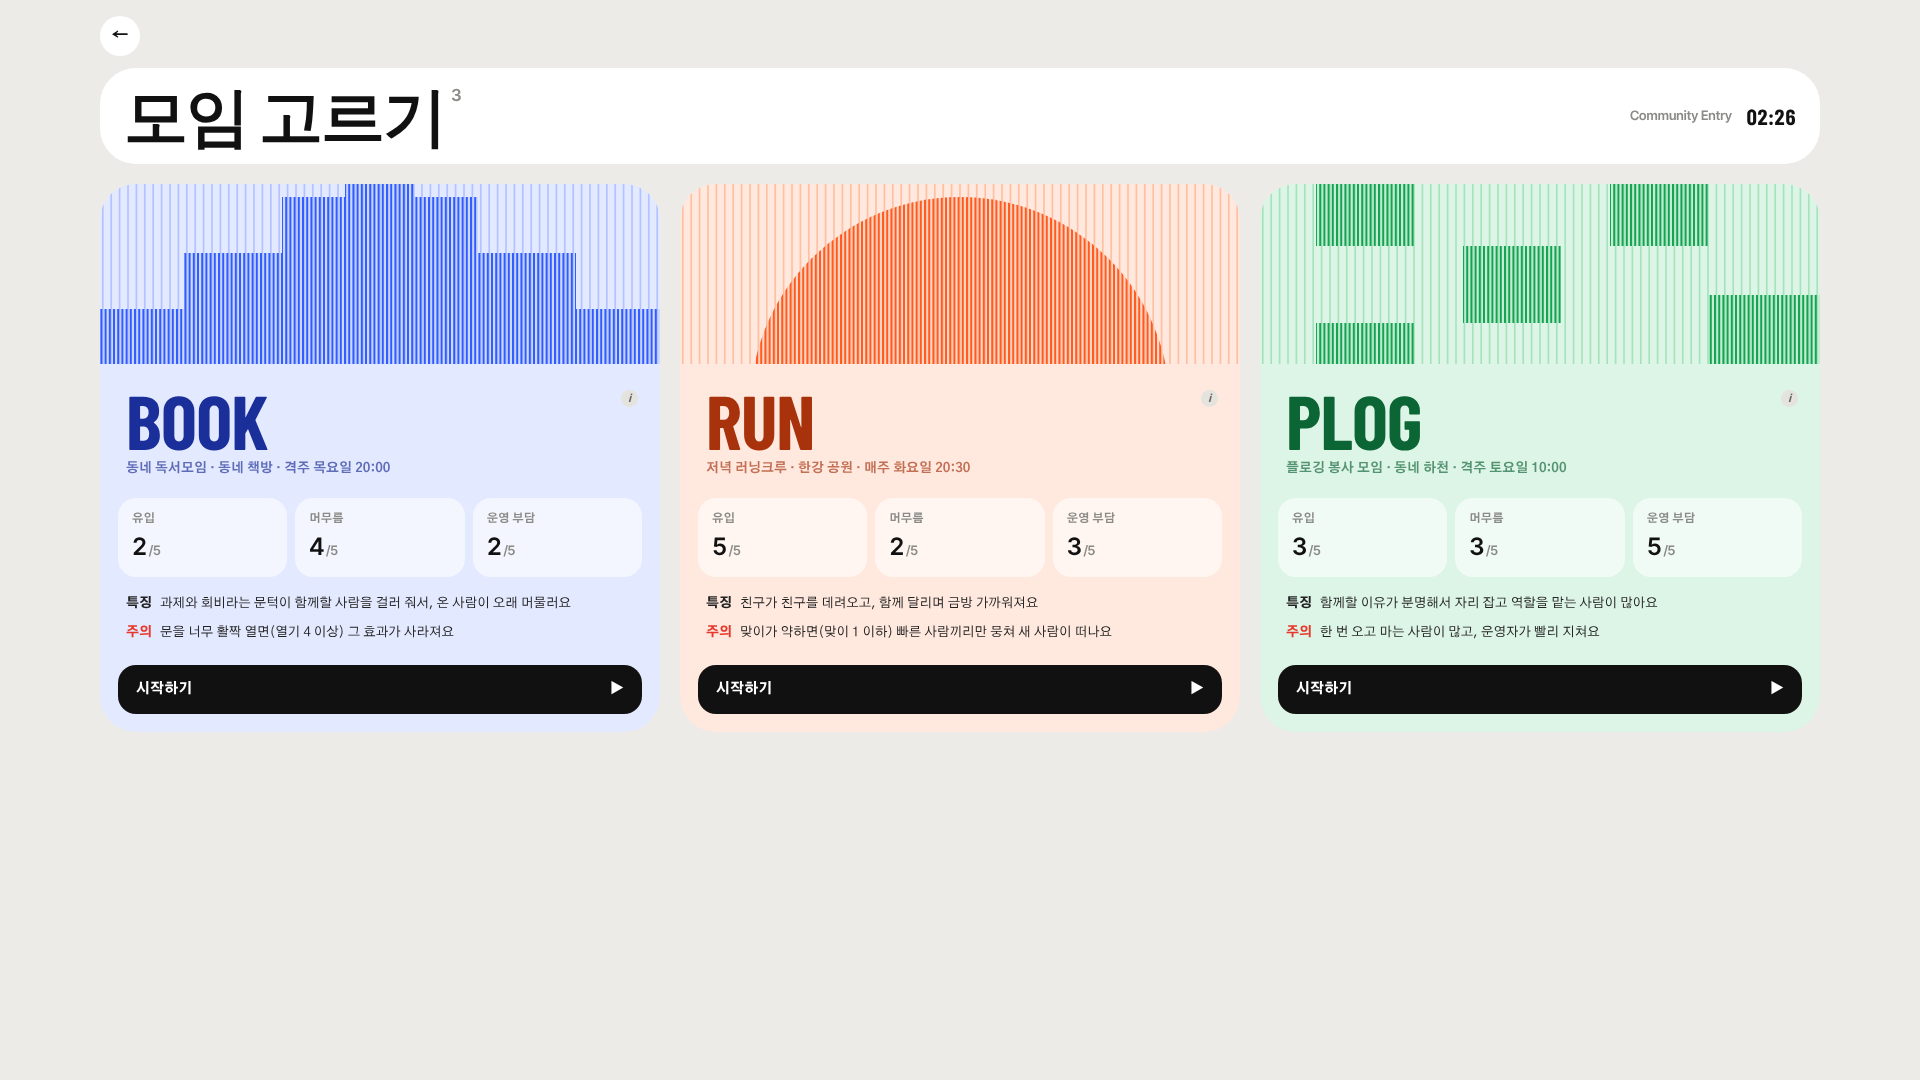
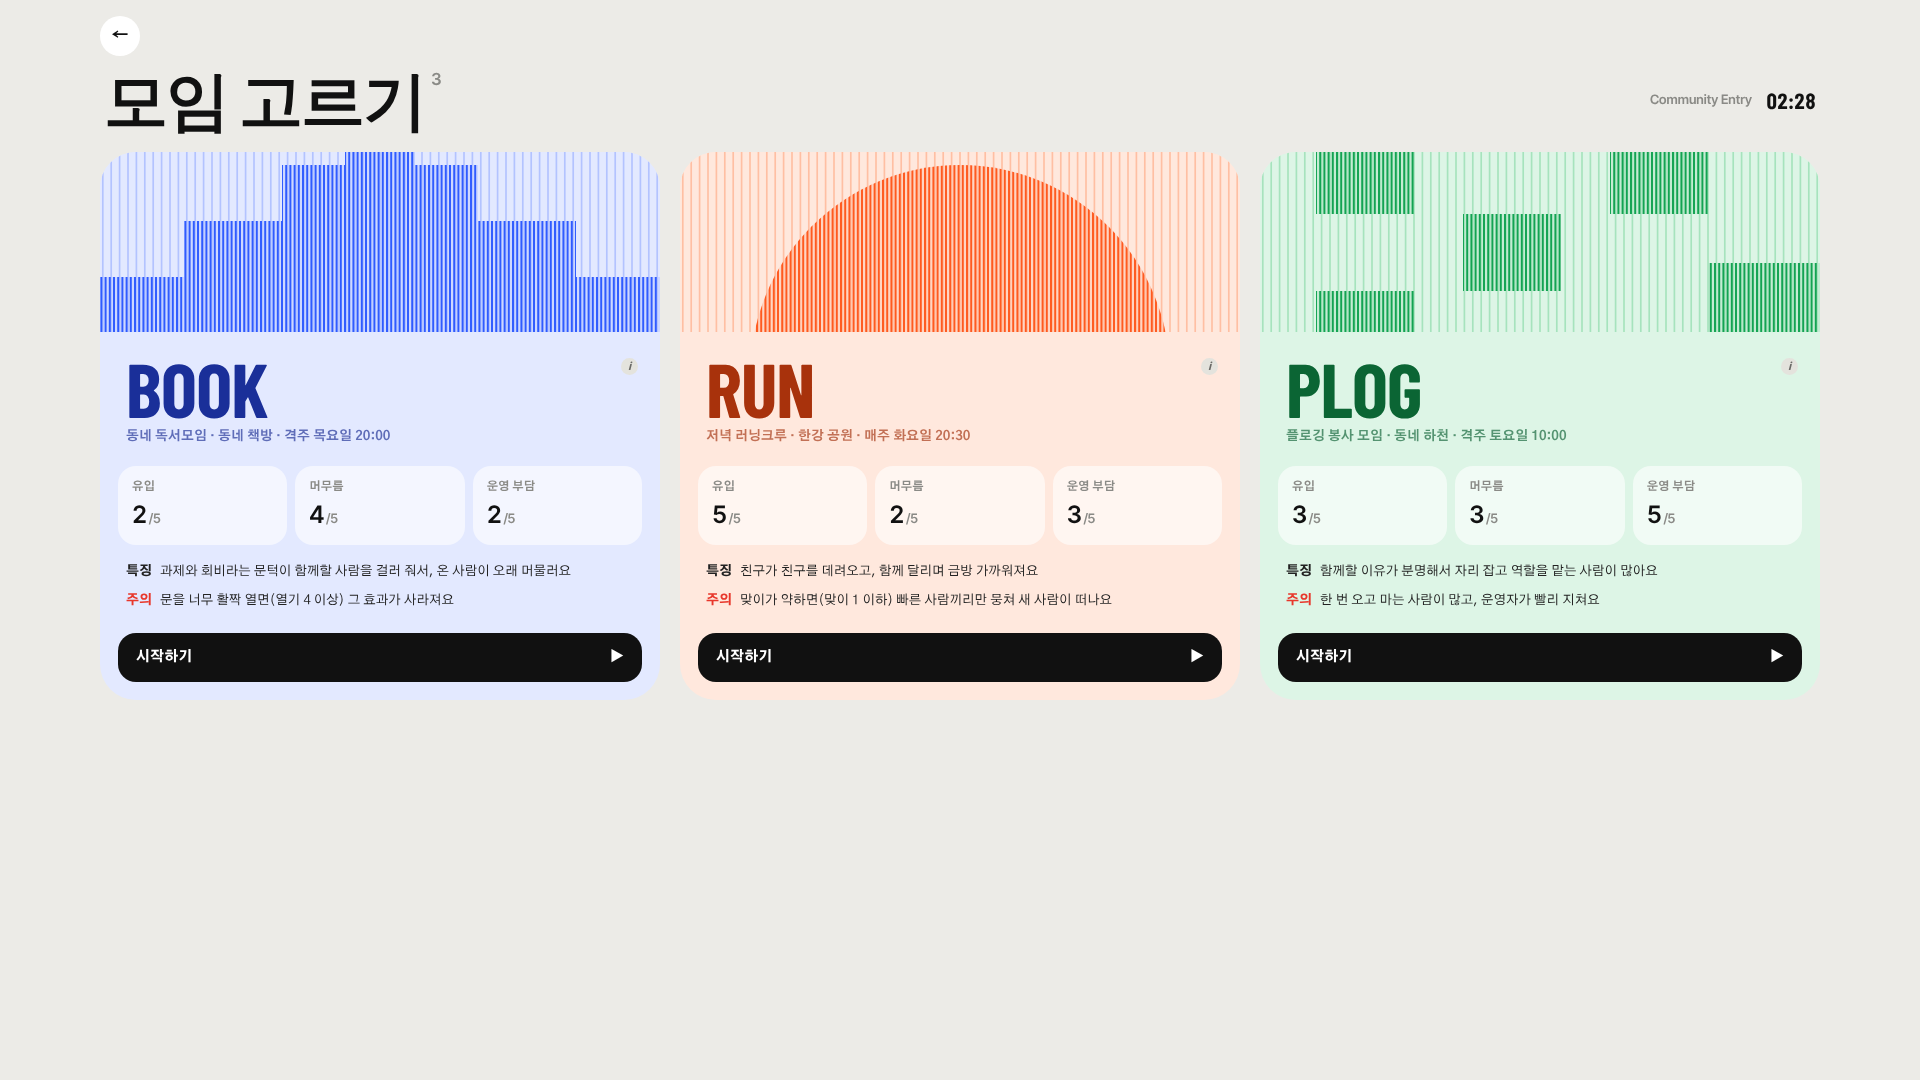
게임 v2.7 시안: Goal 보통 굵기, 모임 고르기 제목 상자와 장소·모임 칸 삭제
Claude-Session: https://claude.ai/code/session_01SaCvLutmawHZS3kxPWYxw7

Changed region(s): [[0.0312, 0.0611, 0.9688, 0.6722], [0.5625, 0.4278, 0.5938, 0.4889]]

diff --git a/thesis/game/moim.v07.src.html b/thesis/game/moim.v07.src.html
@@ -672,6 +672,9 @@ body{background:var(--page)}
 .trait.neg b{color:var(--red)}
 .eh{font-family:var(--f-head);font-weight:700;font-size:22px;letter-spacing:-.02em}
 .goal-t{font-size:18px;font-weight:800;line-height:1.45}
+
+.goal-t{font-weight:500}
+.e-bar{background:transparent!important;padding:0 4px!important;box-shadow:none}
 @media (prefers-reduced-motion:reduce){*{transition:none!important;animation:none!important}}
 </style>
 
@@ -1125,9 +1128,8 @@ function renderPanel(){
   const e=Math.round(st.E);
   P.innerHTML=`
     <section class="pcard">
-      <div class="cat">${T.code} · TYPE ${'ABC'[TKEYS.indexOf(st.type)]}</div>
+      <div class="cat">${T.code} · TYPE ${'ABC'[TKEYS.indexOf(st.type)]} · ${T.place} · ${T.when} ${T.time}</div>
       <h2 class="pname">${T.name}${info(`근거 ${T.ev}: 선행연구에서 뽑은 발견 번호예요.`)}</h2>
-      <div class="cgrid tfacts"><div class="cell"><small>장소</small><b>${T.place}</b></div><div class="cell"><small>모임</small><b>${T.when} ${T.time}</b></div></div>
       <p class="trait"><b>특징</b>${T.plus}</p><p class="trait neg"><b>주의</b>${T.minus}</p>
     </section>
     <section class="pcard"><h3 class="eh">Goal</h3><p class="goal-t">여덟 번째 모임이 끝났을 때, 서로 이어져 남아 있는 사람이 많은 모임</p></section>

diff --git a/thesis/26-game-prototype.md b/thesis/26-game-prototype.md
@@ -183,3 +183,4 @@
 - v2.4: 모임 이름(저녁 러닝크루)을 작은 굵은 글씨로 진단 문구 바로 위로 옮김 (No.·날짜와 한 줄), 왼쪽은 그림 → 다음 질문 → 버튼
 - v2.5: 스킬 설계 → Skills, 각 스킬은 영문 앞글자 검은 동그라미 + 굵은 영문 이름 + 작은 한글 이름, 굵은 선·가는 구분선 목록. Roles와 Rhythm의 앞글자가 겹쳐 자리의 영문명을 Share(나눠 맡기)로 바꿈 (연구자 확인 필요)
 - v2.6: Skills 아래 굵은 선 삭제, Share와 버튼 사이 여백, 뒤로 버튼을 상자 밖 맨 위로(모임 고르기·시뮬레이션·결과 모두), 왼쪽 첫 상자와 시뮬레이션 상자의 위쪽 맞춤, 목표는 Goal 상자로 분리, 첫 상자에는 모임 특성(장소·모임 일정 칸, 특징·주의)
+- v2.7: Goal 문장 보통 굵기, 모임 고르기 제목 상자 없앰(제목 글자만), 장소·모임 칸 없애고 분류 줄에 장소·일정
